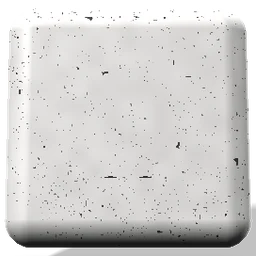
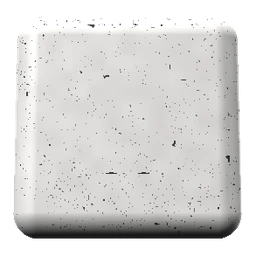
앱: 튀는 움직임·구워진 그림자 걷어내기
- 셈·사만다 그림에서 바닥 그림자 빼고 다시 렌더(render.html FLOOR), 사만다가 가장자리에 잘리지 않게 여백을 두고 자르기(pack.py)
- 사만다 내려앉는 연출(눌렸다 늘어나는 튕김) → 조용히 나타나기, 화면을 옮길 때만 재생
- 화면 이동 시 본문만 살짝 떠오름, 같은 화면 다시 그릴 때는 가만히
- 알림: 그림자 없앰, 하나씩만, 아래 버튼 위에 띄움, 부드럽게 나타났다 사라짐
- 아래 창: 올라오고 내려가는 움직임
- 안드로이드 회색 탭 번쩍임 끄고 눌림 색으로 대신, 스위치 그림자·아래 버튼 흐림 그라데이션 없앰
- 품목 화면 '엑셀·CSV 불러오기' 버튼이 두 줄로 꺾이지 않게
- 서비스워커 sem-v0.3.1

Claude-Session: https://claude.ai/code/session_01WjdEFtsFxn4VPkFkhnPtTo

diff --git a/web/css/app.css b/web/css/app.css
@@ -18,8 +18,12 @@
 }
 * { box-sizing: border-box; }
 html, body { margin: 0; background: var(--bg); color: var(--tx); font: 15px/1.5 var(--f); -webkit-text-size-adjust: 100%; }
+/* 안드로이드 크롬의 회색 탭 번쩍임 대신 아래 :active 로 눌림을 보여 준다 */
+a, button, label { -webkit-tap-highlight-color: transparent; }
 a { color: inherit; }
 button { font: inherit; color: inherit; }
+/* 움직임 규칙: 짧게(0.12~0.22초), 감속 곡선 하나만, 튀거나 늘어나지 않게 */
+:root { --ease: cubic-bezier(.2, .8, .2, 1); }
 #app { max-width: 480px; margin: 0 auto; min-height: 100dvh; }
 .scr { min-height: 100dvh; display: flex; flex-direction: column; padding-top: env(safe-area-inset-top); }
 
@@ -48,10 +52,13 @@ button { font: inherit; color: inherit; }
 .av img { position: absolute; inset: 0; width: 100%; height: 100%; display: block; }
 .av img.shut { opacity: 0; animation: blink var(--p, 4.6s) steps(1, end) infinite; animation-delay: var(--d, 0s); }
 @keyframes blink { 0% { opacity: 0 } 97% { opacity: 1 } 100% { opacity: 0 } }
-/* 셈 → 사만다로 바뀌는 순간: 위로 들렸다가 내려앉음 */
-.drop-in .say .av { animation: drop .62s cubic-bezier(.3,.7,.4,1) both; }
-@keyframes drop { 0% { transform: translateY(-28px) scale(.9, 1.1); opacity: 0 } 55% { transform: translateY(0) scale(1.12, .86); opacity: 1 } 75% { transform: scale(.96, 1.05) } 100% { transform: none } }
-@media (prefers-reduced-motion: reduce) { .av img.shut, .drop-in .say .av { animation: none; } }
+/* 화면을 옮길 때만 본문이 살짝 떠오름(같은 화면을 다시 그릴 때는 가만히) */
+.scr.enter .v { animation: enter .22s var(--ease) both; }
+@keyframes enter { from { opacity: 0; transform: translateY(6px) } to { opacity: 1; transform: none } }
+/* 셈 → 사만다로 바뀌는 순간: 조용히 나타남 */
+.scr.enter.drop-in .say .av { animation: appear .3s var(--ease) both; }
+@keyframes appear { from { opacity: 0; transform: scale(.94) } to { opacity: 1; transform: none } }
+@media (prefers-reduced-motion: reduce) { .av img.shut, .scr.enter .v, .scr.enter.drop-in .say .av { animation: none; } }
 
 .card { background: var(--card); border: 1px solid var(--ln); border-radius: 14px; padding: 12px 14px; font-size: 14px; }
 .card.media { display: grid; grid-template-columns: auto 1fr auto; gap: 10px; align-items: center; }
@@ -75,8 +82,8 @@ button { font: inherit; color: inherit; }
 .opt.on { border-color: var(--tx); }
 .opt.on .ck { background: var(--tx); border-color: var(--tx); }
 .dev { display: inline-flex; align-items: center; font-size: 12px; font-weight: 700; border-radius: 6px; padding: 3px 8px; background: var(--soft); white-space: nowrap; }
-.sw { width: 40px; height: 24px; border-radius: 12px; background: var(--ln); position: relative; flex: none; transition: background .15s; }
-.sw::after { content: ""; position: absolute; width: 20px; height: 20px; border-radius: 50%; background: #fff; top: 2px; left: 2px; transition: left .15s; box-shadow: 0 1px 2px rgba(0,0,0,.2); }
+.sw { width: 40px; height: 24px; border-radius: 12px; background: var(--ln); position: relative; flex: none; transition: background .15s var(--ease); }
+.sw::after { content: ""; position: absolute; width: 20px; height: 20px; border-radius: 50%; background: #fff; top: 2px; left: 2px; transition: left .15s var(--ease); }
 .sw.on { background: var(--tx); } .sw.on::after { left: 18px; }
 .chip { display: inline-block; font-size: 11.5px; font-weight: 800; border-radius: 5px; padding: 2px 7px; color: #fff; white-space: nowrap; vertical-align: 1px; }
 .chip.ok { background: var(--ok); } .chip.chk { background: var(--chk); } .chip.bad { background: var(--bad); } .chip.wait { background: var(--wait); } .chip.blu { background: var(--blu); }
@@ -150,11 +157,16 @@ button { font: inherit; color: inherit; }
 .sim { display: flex; flex-wrap: wrap; gap: 6px; align-items: center; border: 1px dashed var(--ln); border-radius: 12px; padding: 8px 10px; }
 
 /* 아래 버튼 */
-.th { padding: 10px 16px calc(14px + env(safe-area-inset-bottom)); display: grid; gap: 8px; position: sticky; bottom: 0; background: linear-gradient(to bottom, transparent, var(--bg) 14px); }
+.th { padding: 10px 16px calc(14px + env(safe-area-inset-bottom)); display: grid; gap: 8px; position: sticky; bottom: 0; background: var(--bg); }
 .b { text-align: center; font-weight: 700; font-size: 16px; border-radius: 14px; padding: 14px 10px; background: var(--card); border: 1px solid var(--ln); cursor: pointer; min-height: 52px; width: 100%; }
 .b.p { background: var(--tx); color: var(--ink-on); border-color: var(--tx); }
 .b.sm { font-size: 14.5px; padding: 11px 8px; min-height: 48px; }
 .b:disabled { opacity: .42; cursor: default; }
+/* 눌림: 그림자·튕김 없이 색만 잠깐 바뀜 */
+.b, .row, .opt, .fchip, .pad button, .ctl button, .seg button, .tabbar a { transition: background-color .12s, opacity .12s; }
+.b:active:not(:disabled), .opt:active, .fchip:active, .pad button:active, .ctl button:active, .seg button:active { background-color: var(--soft); }
+.b.p:active:not(:disabled), .fchip.on:active, .seg button.on:active { background-color: var(--tx); opacity: .82; }
+a.row:active, button.row:active { background-color: var(--soft); }
 .b2 { display: grid; grid-template-columns: 1fr 1.6fr; gap: 8px; }
 .b2.even { grid-template-columns: 1fr 1fr; }
 .tabbar { display: grid; grid-template-columns: repeat(4, 1fr); border-top: 1px solid var(--ln); background: var(--bg); padding: 6px 4px calc(8px + env(safe-area-inset-bottom)); position: sticky; bottom: 0; }
@@ -166,10 +178,19 @@ button { font: inherit; color: inherit; }
 .scale-link { display: block; text-decoration: none; }
 
 /* 알림 · 아래 창 */
-.toast { position: fixed; left: 50%; bottom: calc(96px + env(safe-area-inset-bottom)); transform: translateX(-50%); background: var(--tx); color: var(--ink-on); padding: 10px 16px; border-radius: 12px; font-size: 14px; font-weight: 600; z-index: 50; max-width: calc(100vw - 32px); box-shadow: 0 6px 20px rgba(0,0,0,.2); }
+.toast { position: fixed; left: 50%; bottom: calc(96px + env(safe-area-inset-bottom)); transform: translateX(-50%); background: var(--tx); color: var(--ink-on); padding: 10px 16px; border-radius: 12px; font-size: 14px; font-weight: 600; z-index: 50; max-width: calc(100vw - 32px); width: max-content; text-align: center; animation: toast-in .18s var(--ease) both; }
+.toast.out { animation: toast-out .16s ease-in both; }
+@keyframes toast-in { from { opacity: 0; transform: translate(-50%, 6px) } to { opacity: 1; transform: translate(-50%, 0) } }
+@keyframes toast-out { to { opacity: 0 } }
 .sheet-wrap { position: fixed; inset: 0; z-index: 40; display: flex; align-items: flex-end; justify-content: center; }
-.sheet-wrap .dim { position: absolute; inset: 0; background: rgba(0,0,0,.35); }
-.sheet { position: relative; background: var(--bg); width: 100%; max-width: 480px; border-radius: 20px 20px 0 0; padding: 18px 16px calc(16px + env(safe-area-inset-bottom)); display: grid; gap: 10px; max-height: 88dvh; overflow: auto; }
+.sheet-wrap .dim { position: absolute; inset: 0; background: rgba(0,0,0,.35); animation: fade .2s var(--ease) both; }
+.sheet { position: relative; background: var(--bg); width: 100%; max-width: 480px; border-radius: 20px 20px 0 0; padding: 18px 16px calc(16px + env(safe-area-inset-bottom)); display: grid; gap: 10px; max-height: 88dvh; overflow: auto; animation: rise .24s var(--ease) both; }
+.sheet-wrap.out .dim { animation: fade .16s ease-in reverse both; }
+.sheet-wrap.out .sheet { animation: sink .16s ease-in both; }
+@keyframes fade { from { opacity: 0 } }
+@keyframes rise { from { transform: translateY(100%) } }
+@keyframes sink { to { transform: translateY(100%) } }
+@media (prefers-reduced-motion: reduce) { .toast, .toast.out, .sheet-wrap .dim, .sheet, .sheet-wrap.out .dim, .sheet-wrap.out .sheet { animation: none; } }
 .sheet-t { font-size: 18px; font-weight: 800; margin: 0; }
 .sheet-btns { display: grid; grid-template-columns: 1fr 1.4fr; gap: 8px; margin-top: 6px; }
 :focus-visible { outline: 3px solid var(--blu); outline-offset: 2px; }

diff --git a/web/js/core.js b/web/js/core.js
@@ -125,11 +125,22 @@ export const btn2 = (a, b) => `<div class="b2">${a}${b}</div>`;
 export const chip = (label, tone = 'ok') => `<span class="chip ${tone}">${esc(label)}</span>`;
 export const dev = (label) => `<span class="dev">${esc(label)}</span>`;
 
+let toastEl = null;
+let toastTimer = 0;
+/** 짧은 알림. 한 번에 하나만, 아래 버튼을 가리지 않게 버튼 바로 위에 띄운다 */
 export function toast(msg, ms = 2600) {
-  const el = document.createElement('div');
+  if (toastEl) toastEl.remove();
+  clearTimeout(toastTimer);
+  const el = toastEl = document.createElement('div');
   el.className = 'toast'; el.setAttribute('role', 'status'); el.textContent = msg;
+  const bar = document.querySelector('#app .th, #app .tabbar');
+  const top = bar ? bar.getBoundingClientRect().top : window.innerHeight;
+  el.style.bottom = Math.max(16, window.innerHeight - top + 10) + 'px';
   document.body.appendChild(el);
-  setTimeout(() => el.remove(), ms);
+  toastTimer = setTimeout(() => {
+    el.classList.add('out');
+    setTimeout(() => { el.remove(); if (toastEl === el) toastEl = null; }, 170);
+  }, ms);
 }
 
 /** 아래에서 올라오는 확인 창. 고른 버튼의 value를 돌려준다 */
@@ -142,11 +153,12 @@ export function sheet(html, buttons) {
     const first = wrap.querySelector('input,select,textarea'); if (first) setTimeout(() => first.focus(), 50);
     wrap.addEventListener('click', (e) => {
       const t = e.target.closest('[data-v]');
-      if (!t) return;
+      if (!t || wrap.classList.contains('out')) return;
       const v = t.dataset.v;
       const form = {};
       wrap.querySelectorAll('[name]').forEach((i) => { if (i.type === 'radio') { if (i.checked) form[i.name] = i.value; } else form[i.name] = i.type === 'checkbox' ? i.checked : i.value; });
-      wrap.remove();
+      wrap.classList.add('out');
+      setTimeout(() => wrap.remove(), matchMedia('(prefers-reduced-motion: reduce)').matches ? 0 : 170);
       res(v === '' ? null : { value: v, form });
     });
   });

diff --git a/tools/chars/render.html b/tools/chars/render.html
@@ -2,7 +2,7 @@
 const VS='attribute vec2 p; void main(){ gl_Position = vec4(p,0.,1.); }';
 const FS=`
 precision highp float;
-uniform vec2 R; uniform float T, WARP, THICK, SPECK, MORPH, POSY, SQX, SQY, SHAKE, ZOOM, BLINK, SWAY; uniform vec3 LEDC;
+uniform vec2 R; uniform float T, WARP, THICK, SPECK, MORPH, POSY, SQX, SQY, SHAKE, ZOOM, BLINK, SWAY, FLOOR; uniform vec3 LEDC;
 float hash(vec3 p){ p = fract(p*0.3183099+.1); p *= 17.0; return fract(p.x*p.y*p.z*(p.x+p.y+p.z)); }
 float vnoise(vec3 x){ vec3 i=floor(x), f=fract(x); f=f*f*(3.-2.*f);
   return mix(mix(mix(hash(i),hash(i+vec3(1,0,0)),f.x),mix(hash(i+vec3(0,1,0)),hash(i+vec3(1,1,0)),f.x),f.y),
@@ -59,7 +59,7 @@ void main(){
     vec3 p = ro+rd*t, n = nor(p);
     vec3 L1 = normalize(vec3(-.6,.9,.7)), L2 = normalize(vec3(.8,.35,-.4));
     float sh = mix(.55, 1., shadow(p+n*.002, L1)), oc = ao(p,n);
-    if(h.y < .5){ float a=1.-(.66+.34*sh)*(.78+.22*oc); gl_FragColor=vec4(0.,0.,0.,clamp(a*1.6,0.,1.)); return; }
+    if(h.y < .5){ if(FLOOR < .5){ gl_FragColor=vec4(0.); return; } float a=1.-(.66+.34*sh)*(.78+.22*oc); gl_FragColor=vec4(0.,0.,0.,clamp(a*1.6,0.,1.)); return; }
     else {
       vec3 q = toLocal(p); q.y -= POSY; q.x /= SQX; q.y /= SQY;
       vec3 base = vec3(.935,.93,.92); float led = 0., glow = 0.;

diff --git a/web/js/views/items.js b/web/js/views/items.js
@@ -16,7 +16,7 @@ export function items() {
     + advice
     + (list.length ? `<section class="card list">${list.map((i) => `<a class="row" href="#/item/${i.id}"><span><b>${esc(i.name)}</b><small>${[i.code, itemHint(i)].filter(Boolean).map(esc).join(' · ')}</small></span><span class="dev">${METHODS[method(i)].label}</span></a>`).join('')}</section>` : '');
   return {
-    html: screen({ title: '품목', back: false, body, actions: btn2(btn('엑셀·CSV 불러오기', 'import', { sm: true }), btn('새 품목', 'add', { primary: true, sm: true })), tab: 'items' }),
+    html: screen({ title: '품목', back: false, body, actions: `<div class="b2 even">${btn('엑셀·CSV 불러오기', 'import', { sm: true })}${btn('새 품목', 'add', { primary: true, sm: true })}</div>`, tab: 'items' }),
     on: { import: importFlow, add: () => go('#/item/new') },
     mount() { if (qs().get('import')) { history.replaceState(null, '', '#/items'); importFlow(); } },
   };

diff --git a/web/js/app.js b/web/js/app.js
@@ -33,6 +33,7 @@ const ROUTES = [
 const root = document.getElementById('app');
 let current = null;
 let renderSeq = 0;
+let lastPath = null;
 
 function match(path) {
   const parts = path.split('/').filter(Boolean);
@@ -56,6 +57,9 @@ export async function render() {
   if (current?.unmount) { try { current.unmount(); } catch { /* */ } }
   current = next;
   root.innerHTML = current.html;
+  // 다른 화면으로 옮길 때만 들어오는 움직임을 준다. 같은 화면을 다시 그릴 때(저울 상태·선택 바꿈)는 가만히 둔다
+  if (path !== lastPath) root.firstElementChild?.classList.add('enter');
+  lastPath = path;
   root.scrollTop = 0;
   window.scrollTo(0, 0);
   if (current.mount) current.mount(root);

diff --git a/web/sw.js b/web/sw.js
@@ -1,5 +1,5 @@
 // 서비스워커: 앱 화면을 기기에 저장해 인터넷이 끊겨도 셈이 열리게 한다. 서버 API는 캐시하지 않는다.
-const VERSION = 'sem-v0.3.0';
+const VERSION = 'sem-v0.3.1';
 const SHELL = [
   './', 'index.html', 'css/app.css', 'manifest.webmanifest', 'icons/icon-192.png', 'icons/icon-180.png',
   'fonts/jetbrains-mono-latin-500-normal.woff2', 'fonts/jetbrains-mono-latin-700-normal.woff2',

diff --git a/tools/chars/pack.py b/tools/chars/pack.py
@@ -1,0 +1,34 @@
+# 셈·사만다 PNG(tools/chars/out) → web/chars/*.webp
+# 같은 캐릭터의 그림(눈 뜸·감음·LED 색)은 같은 자리로 잘라야 겹쳐 깜빡일 때 흔들리지 않는다.
+# 물체 둘레를 정사각형으로 잡고 사방에 여백 6%를 둔 뒤 256px로 줄인다.
+import glob, os
+from PIL import Image
+
+HERE = os.path.dirname(os.path.abspath(__file__))
+OUT = os.path.join(HERE, '..', '..', 'web', 'chars')
+PAD, SIZE = 0.06, 256
+
+def family(name):
+    return 'sem' if name.startswith('sem') else 'sam'
+
+files = sorted(glob.glob(os.path.join(HERE, 'out', '*.png')))
+boxes = {}
+for f in files:
+    a = Image.open(f).convert('RGBA').split()[3].point(lambda v: 255 if v > 8 else 0)
+    b = a.getbbox()
+    k = family(os.path.basename(f))
+    o = boxes.get(k)
+    boxes[k] = b if not o else (min(o[0], b[0]), min(o[1], b[1]), max(o[2], b[2]), max(o[3], b[3]))
+
+for f in files:
+    name = os.path.splitext(os.path.basename(f))[0]
+    x0, y0, x1, y1 = boxes[family(name)]
+    side = max(x1 - x0, y1 - y0)
+    side = int(round(side * (1 + 2 * PAD)))
+    cx, cy = (x0 + x1) / 2, (y0 + y1) / 2
+    left, top = int(round(cx - side / 2)), int(round(cy - side / 2))
+    src = Image.open(f).convert('RGBA')
+    canvas = Image.new('RGBA', (side, side), (0, 0, 0, 0))
+    canvas.paste(src, (-left, -top))
+    canvas.resize((SIZE, SIZE), Image.LANCZOS).save(os.path.join(OUT, name + '.webp'), 'WEBP', quality=90, method=6)
+    print(name, 'ok')
